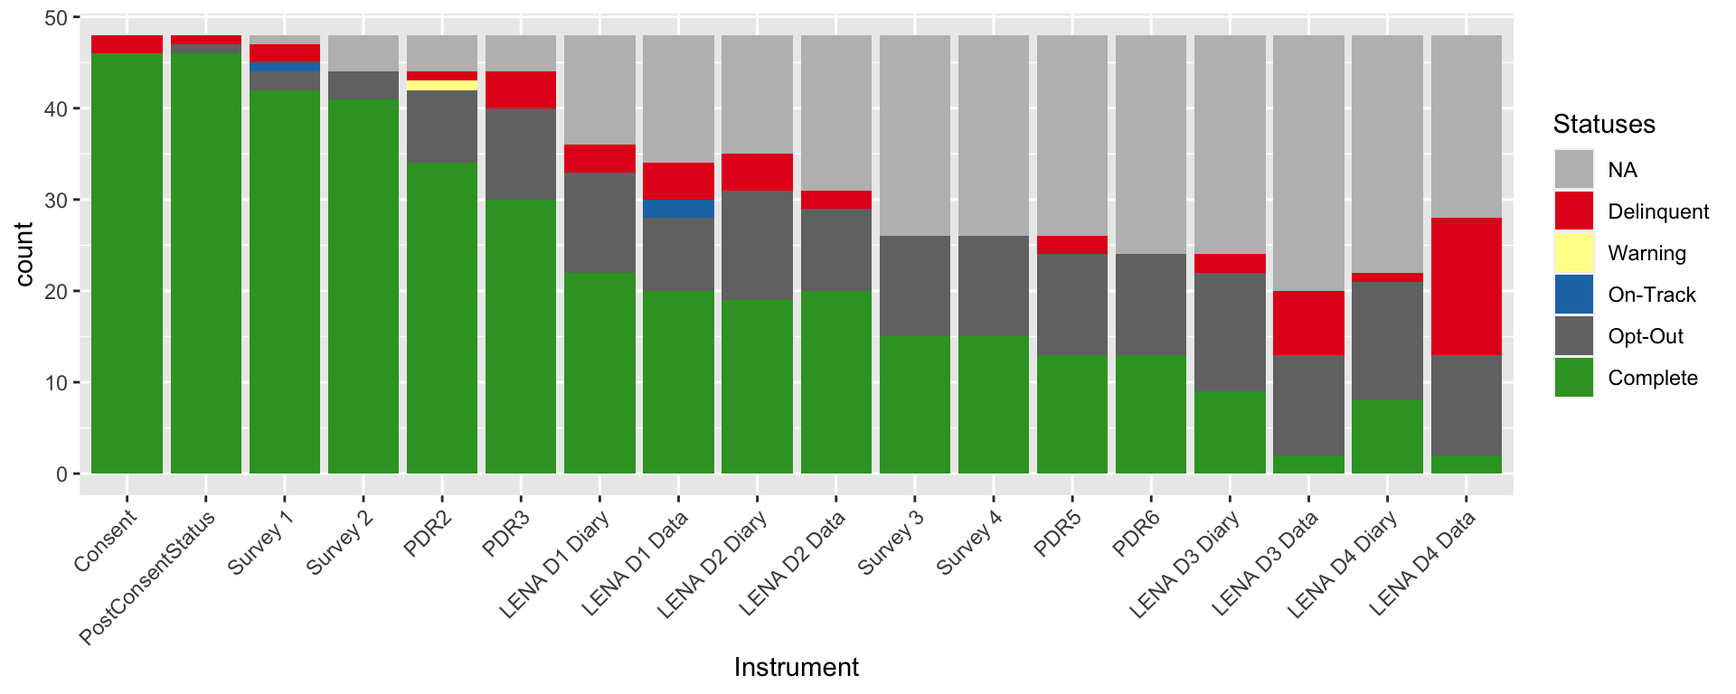
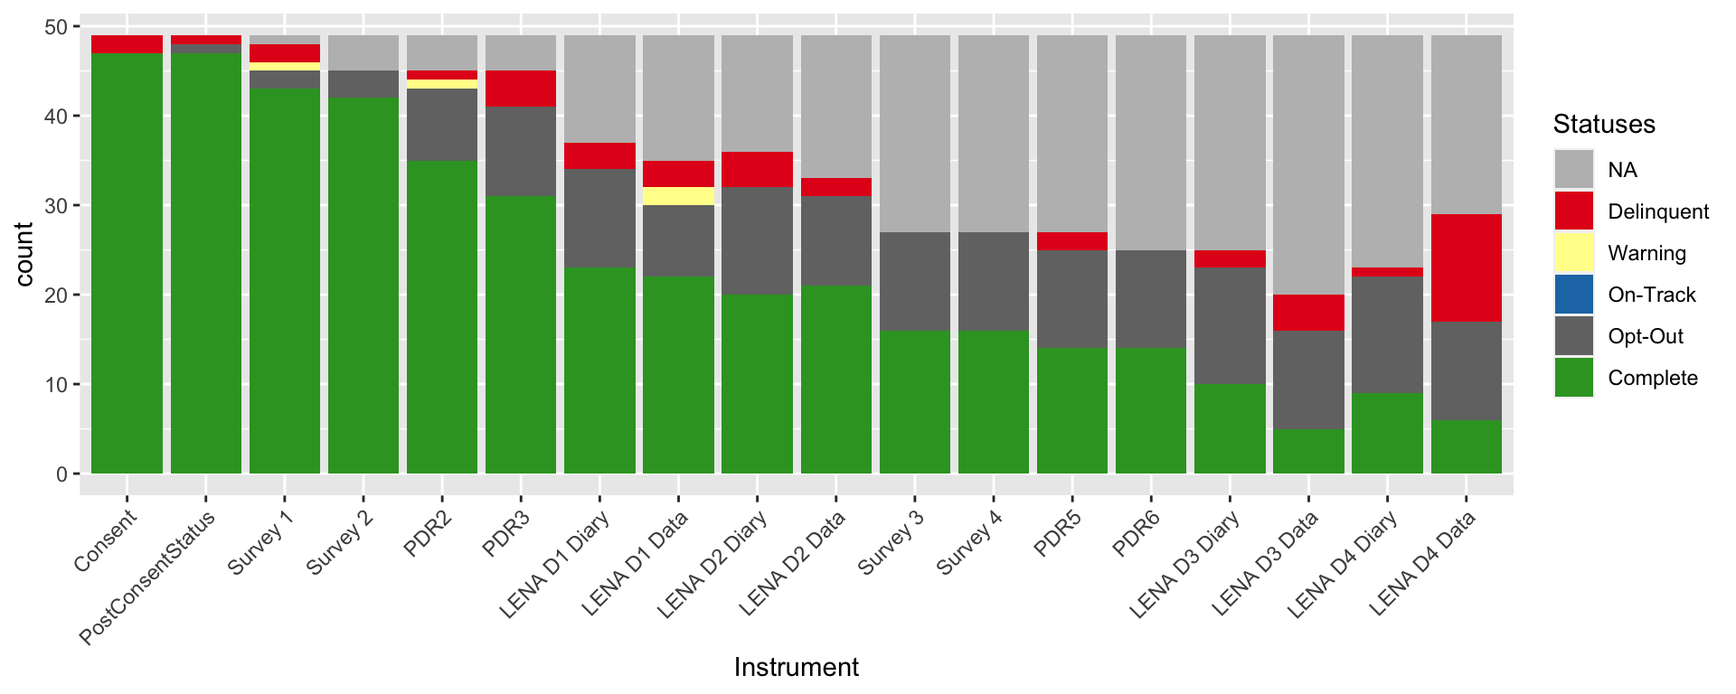
Add drop = false, fix missing factors in plot

diff --git a/_site/reports.html b/_site/reports.html
@@ -399,7 +399,7 @@ $(document).ready(function () {
 </div>
 <center>
 <div id="htmlwidget-64dbf7ed44db75815197" style="width:960px;height:384px;" class="plotly html-widget"></div>
-<script type="application/json" data-for="htmlwidget-64dbf7ed44db75815197">{"x":{"data":[{"x":[1594210295,1595855440,1595947129,1596636699,1597147658,1597190400,1597276800,1597402867,1598436608,1598538979,1598541299,1598955066,1599570320,1600250194,1600255992,1600300800,1600355481,1600387200,1600863340,1601302221,1601566658,1602239005,1603368728,1603379955,1603670400,1603977413,1604491899,1604751373,1605089156,1605139200,1605179257,1605721538,1605872792,1607040000,1607472000,1607644800,1607687486,1609891200,1609897301,1611187200,1611878400,1612396800,1612396800,1612396800,1611878400,1611187200,1609897301,1609891200,1607687486,1607644800,1607472000,1607040000,1605872792,1605721538,1605179257,1605139200,1605089156,1604751373,1604491899,1603977413,1603670400,1603379955,1603368728,1602239005,1601566658,1601302221,1600863340,1600387200,1600355481,1600300800,1600255992,1600250194,1599570320,1598955066,1598541299,1598538979,1598436608,1597402867,1597276800,1597190400,1597147658,1596636699,1595947129,1595855440,1594210295,1594210295],"y":[0,0,0,0,0,0,0,0,0,0,0,0,0,0,0,0,0,0,0,0,0,0,0,0,0,0,0,0,0,0,0,0,0,0,0,0,0,0,0,0,0,0,0,43,42,41,40,39,38,37,36,35,34,33,32,31,30,29,28,27,26,25,24,23,22,21,20,19,18,17,16,15,14,13,12,11,10,9,8,6,5,4,3,2,1,0],"text":["InformedConsent: 2020-07-08 19:11:35<br />Cumulative:  1","InformedConsent: 2020-07-27 20:10:40<br />Cumulative:  2","InformedConsent: 2020-07-28 21:38:49<br />Cumulative:  3","InformedConsent: 2020-08-05 21:11:39<br />Cumulative:  4","InformedConsent: 2020-08-11 19:07:38<br />Cumulative:  5","InformedConsent: 2020-08-12 07:00:00<br />Cumulative:  6","InformedConsent: 2020-08-13 07:00:00<br />Cumulative:  8","InformedConsent: 2020-08-14 18:01:07<br />Cumulative:  9","InformedConsent: 2020-08-26 17:10:08<br />Cumulative: 10","InformedConsent: 2020-08-27 21:36:19<br />Cumulative: 11","InformedConsent: 2020-08-27 22:14:59<br />Cumulative: 12","InformedConsent: 2020-09-01 17:11:06<br />Cumulative: 13","InformedConsent: 2020-09-08 20:05:20<br />Cumulative: 14","InformedConsent: 2020-09-16 16:56:34<br />Cumulative: 15","InformedConsent: 2020-09-16 18:33:12<br />Cumulative: 16","InformedConsent: 2020-09-17 07:00:00<br />Cumulative: 17","InformedConsent: 2020-09-17 22:11:21<br />Cumulative: 18","InformedConsent: 2020-09-18 07:00:00<br />Cumulative: 19","InformedConsent: 2020-09-23 19:15:40<br />Cumulative: 20","InformedConsent: 2020-09-28 21:10:21<br />Cumulative: 21","InformedConsent: 2020-10-01 22:37:38<br />Cumulative: 22","InformedConsent: 2020-10-09 17:23:25<br />Cumulative: 23","InformedConsent: 2020-10-22 19:12:08<br />Cumulative: 24","InformedConsent: 2020-10-22 22:19:15<br />Cumulative: 25","InformedConsent: 2020-10-26 07:00:00<br />Cumulative: 26","InformedConsent: 2020-10-29 20:16:53<br />Cumulative: 27","InformedConsent: 2020-11-04 20:11:39<br />Cumulative: 28","InformedConsent: 2020-11-07 20:16:13<br />Cumulative: 29","InformedConsent: 2020-11-11 18:05:56<br />Cumulative: 30","InformedConsent: 2020-11-12 08:00:00<br />Cumulative: 31","InformedConsent: 2020-11-12 19:07:37<br />Cumulative: 32","InformedConsent: 2020-11-19 01:45:38<br />Cumulative: 33","InformedConsent: 2020-11-20 19:46:32<br />Cumulative: 34","InformedConsent: 2020-12-04 08:00:00<br />Cumulative: 35","InformedConsent: 2020-12-09 08:00:00<br />Cumulative: 36","InformedConsent: 2020-12-11 08:00:00<br />Cumulative: 37","InformedConsent: 2020-12-11 19:51:26<br />Cumulative: 38","InformedConsent: 2021-01-06 08:00:00<br />Cumulative: 39","InformedConsent: 2021-01-06 09:41:41<br />Cumulative: 40","InformedConsent: 2021-01-21 08:00:00<br />Cumulative: 41","InformedConsent: 2021-01-29 08:00:00<br />Cumulative: 42","InformedConsent: 2021-02-04 08:00:00<br />Cumulative: 43","InformedConsent: 2021-02-04 08:00:00<br />Cumulative: 43","InformedConsent: 2021-02-04 08:00:00<br />Cumulative: 43","InformedConsent: 2021-01-29 08:00:00<br />Cumulative: 42","InformedConsent: 2021-01-21 08:00:00<br />Cumulative: 41","InformedConsent: 2021-01-06 09:41:41<br />Cumulative: 40","InformedConsent: 2021-01-06 08:00:00<br />Cumulative: 39","InformedConsent: 2020-12-11 19:51:26<br />Cumulative: 38","InformedConsent: 2020-12-11 08:00:00<br />Cumulative: 37","InformedConsent: 2020-12-09 08:00:00<br />Cumulative: 36","InformedConsent: 2020-12-04 08:00:00<br />Cumulative: 35","InformedConsent: 2020-11-20 19:46:32<br />Cumulative: 34","InformedConsent: 2020-11-19 01:45:38<br />Cumulative: 33","InformedConsent: 2020-11-12 19:07:37<br />Cumulative: 32","InformedConsent: 2020-11-12 08:00:00<br />Cumulative: 31","InformedConsent: 2020-11-11 18:05:56<br />Cumulative: 30","InformedConsent: 2020-11-07 20:16:13<br />Cumulative: 29","InformedConsent: 2020-11-04 20:11:39<br />Cumulative: 28","InformedConsent: 2020-10-29 20:16:53<br />Cumulative: 27","InformedConsent: 2020-10-26 07:00:00<br />Cumulative: 26","InformedConsent: 2020-10-22 22:19:15<br />Cumulative: 25","InformedConsent: 2020-10-22 19:12:08<br />Cumulative: 24","InformedConsent: 2020-10-09 17:23:25<br />Cumulative: 23","InformedConsent: 2020-10-01 22:37:38<br />Cumulative: 22","InformedConsent: 2020-09-28 21:10:21<br />Cumulative: 21","InformedConsent: 2020-09-23 19:15:40<br />Cumulative: 20","InformedConsent: 2020-09-18 07:00:00<br />Cumulative: 19","InformedConsent: 2020-09-17 22:11:21<br />Cumulative: 18","InformedConsent: 2020-09-17 07:00:00<br />Cumulative: 17","InformedConsent: 2020-09-16 18:33:12<br />Cumulative: 16","InformedConsent: 2020-09-16 16:56:34<br />Cumulative: 15","InformedConsent: 2020-09-08 20:05:20<br />Cumulative: 14","InformedConsent: 2020-09-01 17:11:06<br />Cumulative: 13","InformedConsent: 2020-08-27 22:14:59<br />Cumulative: 12","InformedConsent: 2020-08-27 21:36:19<br />Cumulative: 11","InformedConsent: 2020-08-26 17:10:08<br />Cumulative: 10","InformedConsent: 2020-08-14 18:01:07<br />Cumulative:  9","InformedConsent: 2020-08-13 07:00:00<br />Cumulative:  8","InformedConsent: 2020-08-12 07:00:00<br />Cumulative:  6","InformedConsent: 2020-08-11 19:07:38<br />Cumulative:  5","InformedConsent: 2020-08-05 21:11:39<br />Cumulative:  4","InformedConsent: 2020-07-28 21:38:49<br />Cumulative:  3","InformedConsent: 2020-07-27 20:10:40<br />Cumulative:  2","InformedConsent: 2020-07-08 19:11:35<br />Cumulative:  1","InformedConsent: 2020-07-08 19:11:35<br />Cumulative:  1"],"type":"scatter","mode":"lines","line":{"width":1.88976377952756,"color":"transparent","dash":"solid"},"fill":"toself","fillcolor":"rgba(105,179,162,0.5)","hoveron":"points","showlegend":false,"xaxis":"x","yaxis":"y","hoverinfo":"text","frame":null},{"x":[1594210295,1595855440,1595947129,1596636699,1597147658,1597190400,1597276800,1597402867,1598436608,1598538979,1598541299,1598955066,1599570320,1600250194,1600255992,1600300800,1600355481,1600387200,1600863340,1601302221,1601566658,1602239005,1603368728,1603379955,1603670400,1603977413,1604491899,1604751373,1605089156,1605139200,1605179257,1605721538,1605872792,1607040000,1607472000,1607644800,1607687486,1609891200,1609897301,1611187200,1611878400,1612396800,null],"y":[1,2,3,4,5,6,8,9,10,11,12,13,14,15,16,17,18,19,20,21,22,23,24,25,26,27,28,29,30,31,32,33,34,35,36,37,38,39,40,41,42,43,48],"text":["InformedConsent: 2020-07-08 12:11:35<br />Cumulative:  1","InformedConsent: 2020-07-27 13:10:40<br />Cumulative:  2","InformedConsent: 2020-07-28 14:38:49<br />Cumulative:  3","InformedConsent: 2020-08-05 14:11:39<br />Cumulative:  4","InformedConsent: 2020-08-11 12:07:38<br />Cumulative:  5","InformedConsent: 2020-08-12 00:00:00<br />Cumulative:  6","InformedConsent: 2020-08-13 00:00:00<br />Cumulative:  8","InformedConsent: 2020-08-14 11:01:07<br />Cumulative:  9","InformedConsent: 2020-08-26 10:10:08<br />Cumulative: 10","InformedConsent: 2020-08-27 14:36:19<br />Cumulative: 11","InformedConsent: 2020-08-27 15:14:59<br />Cumulative: 12","InformedConsent: 2020-09-01 10:11:06<br />Cumulative: 13","InformedConsent: 2020-09-08 13:05:20<br />Cumulative: 14","InformedConsent: 2020-09-16 09:56:34<br />Cumulative: 15","InformedConsent: 2020-09-16 11:33:12<br />Cumulative: 16","InformedConsent: 2020-09-17 00:00:00<br />Cumulative: 17","InformedConsent: 2020-09-17 15:11:21<br />Cumulative: 18","InformedConsent: 2020-09-18 00:00:00<br />Cumulative: 19","InformedConsent: 2020-09-23 12:15:40<br />Cumulative: 20","InformedConsent: 2020-09-28 14:10:21<br />Cumulative: 21","InformedConsent: 2020-10-01 15:37:38<br />Cumulative: 22","InformedConsent: 2020-10-09 10:23:25<br />Cumulative: 23","InformedConsent: 2020-10-22 12:12:08<br />Cumulative: 24","InformedConsent: 2020-10-22 15:19:15<br />Cumulative: 25","InformedConsent: 2020-10-26 00:00:00<br />Cumulative: 26","InformedConsent: 2020-10-29 13:16:53<br />Cumulative: 27","InformedConsent: 2020-11-04 12:11:39<br />Cumulative: 28","InformedConsent: 2020-11-07 12:16:13<br />Cumulative: 29","InformedConsent: 2020-11-11 10:05:56<br />Cumulative: 30","InformedConsent: 2020-11-12 00:00:00<br />Cumulative: 31","InformedConsent: 2020-11-12 11:07:37<br />Cumulative: 32","InformedConsent: 2020-11-18 17:45:38<br />Cumulative: 33","InformedConsent: 2020-11-20 11:46:32<br />Cumulative: 34","InformedConsent: 2020-12-04 00:00:00<br />Cumulative: 35","InformedConsent: 2020-12-09 00:00:00<br />Cumulative: 36","InformedConsent: 2020-12-11 00:00:00<br />Cumulative: 37","InformedConsent: 2020-12-11 11:51:26<br />Cumulative: 38","InformedConsent: 2021-01-06 00:00:00<br />Cumulative: 39","InformedConsent: 2021-01-06 01:41:41<br />Cumulative: 40","InformedConsent: 2021-01-21 00:00:00<br />Cumulative: 41","InformedConsent: 2021-01-29 00:00:00<br />Cumulative: 42","InformedConsent: 2021-02-04 00:00:00<br />Cumulative: 43","InformedConsent: NA<br />Cumulative: 48"],"type":"scatter","mode":"lines","line":{"width":1.88976377952756,"color":"rgba(105,179,162,1)","dash":"solid"},"hoveron":"points","showlegend":false,"xaxis":"x","yaxis":"y","hoverinfo":"text","frame":null}],"layout":{"margin":{"t":65.813200498132,"r":39.8505603985056,"b":80.8634288086343,"l":70.9007887090079},"font":{"color":"rgba(0,0,0,1)","family":"Arial Narrow","size":15.2760481527605},"xaxis":{"domain":[0,1],"automargin":true,"type":"linear","autorange":false,"range":[1593300969.75,1613306125.25],"tickmode":"array","ticktext":["Jul","Oct","Jan"],"tickvals":[1593561600,1601510400,1609459200],"categoryorder":"array","categoryarray":["Jul","Oct","Jan"],"nticks":null,"ticks":"","tickcolor":null,"ticklen":3.81901203819012,"tickwidth":0,"showticklabels":true,"tickfont":{"color":"rgba(77,77,77,1)","family":"Arial Narrow","size":15.2760481527605},"tickangle":-0,"showline":false,"linecolor":null,"linewidth":0,"showgrid":true,"gridcolor":"rgba(204,204,204,1)","gridwidth":0.265670402656704,"zeroline":false,"anchor":"y","title":{"text":"Time","font":{"color":"rgba(0,0,0,1)","family":"Arial Narrow","size":11.9551681195517}},"hoverformat":".2f"},"yaxis":{"domain":[0,1],"automargin":true,"type":"linear","autorange":false,"range":[-2.4,50.4],"tickmode":"array","ticktext":["0","10","20","30","40","50"],"tickvals":[0,10,20,30,40,50],"categoryorder":"array","categoryarray":["0","10","20","30","40","50"],"nticks":null,"ticks":"","tickcolor":null,"ticklen":3.81901203819012,"tickwidth":0,"showticklabels":true,"tickfont":{"color":"rgba(77,77,77,1)","family":"Arial Narrow","size":15.2760481527605},"tickangle":-0,"showline":false,"linecolor":null,"linewidth":0,"showgrid":true,"gridcolor":"rgba(204,204,204,1)","gridwidth":0.265670402656704,"zeroline":false,"anchor":"x","title":{"text":"Dyad Count","font":{"color":"rgba(0,0,0,1)","family":"Arial Narrow","size":11.9551681195517}},"hoverformat":".2f"},"shapes":[{"type":"rect","fillcolor":null,"line":{"color":null,"width":0,"linetype":[]},"yref":"paper","xref":"paper","x0":0,"x1":1,"y0":0,"y1":1}],"showlegend":false,"legend":{"bgcolor":null,"bordercolor":null,"borderwidth":0,"font":{"color":"rgba(0,0,0,1)","family":"Arial Narrow","size":12.2208385222084}},"hovermode":"closest","barmode":"relative"},"config":{"doubleClick":"reset","showSendToCloud":false},"source":"A","attrs":{"1558e3a3b6d2a":{"x":{},"y":{},"type":"scatter"},"1558e137bfe44":{"x":{},"y":{}}},"cur_data":"1558e3a3b6d2a","visdat":{"1558e3a3b6d2a":["function (y) ","x"],"1558e137bfe44":["function (y) ","x"]},"highlight":{"on":"plotly_click","persistent":false,"dynamic":false,"selectize":false,"opacityDim":0.2,"selected":{"opacity":1},"debounce":0},"shinyEvents":["plotly_hover","plotly_click","plotly_selected","plotly_relayout","plotly_brushed","plotly_brushing","plotly_clickannotation","plotly_doubleclick","plotly_deselect","plotly_afterplot","plotly_sunburstclick"],"base_url":"https://plot.ly"},"evals":[],"jsHooks":[]}</script><img src="reports_files/figure-html/SEAL%20Conditions%20Plot-2.png" width="960" />
+<script type="application/json" data-for="htmlwidget-64dbf7ed44db75815197">{"x":{"data":[{"x":[1594210295,1595855440,1595947129,1596636699,1597147658,1597190400,1597276800,1597402867,1598436608,1598538979,1598541299,1598955066,1599570320,1600250194,1600255992,1600300800,1600355481,1600387200,1600863340,1601302221,1601566658,1602239005,1603368728,1603379955,1603670400,1603977413,1604491899,1604751373,1605089156,1605139200,1605179257,1605721538,1605872792,1607040000,1607472000,1607644800,1607687486,1609891200,1609897301,1611187200,1611878400,1612396800,1612396800,1612396800,1611878400,1611187200,1609897301,1609891200,1607687486,1607644800,1607472000,1607040000,1605872792,1605721538,1605179257,1605139200,1605089156,1604751373,1604491899,1603977413,1603670400,1603379955,1603368728,1602239005,1601566658,1601302221,1600863340,1600387200,1600355481,1600300800,1600255992,1600250194,1599570320,1598955066,1598541299,1598538979,1598436608,1597402867,1597276800,1597190400,1597147658,1596636699,1595947129,1595855440,1594210295,1594210295],"y":[0,0,0,0,0,0,0,0,0,0,0,0,0,0,0,0,0,0,0,0,0,0,0,0,0,0,0,0,0,0,0,0,0,0,0,0,0,0,0,0,0,0,0,43,42,41,40,39,38,37,36,35,34,33,32,31,30,29,28,27,26,25,24,23,22,21,20,19,18,17,16,15,14,13,12,11,10,9,8,6,5,4,3,2,1,0],"text":["InformedConsent: 2020-07-08 19:11:35<br />Cumulative:  1","InformedConsent: 2020-07-27 20:10:40<br />Cumulative:  2","InformedConsent: 2020-07-28 21:38:49<br />Cumulative:  3","InformedConsent: 2020-08-05 21:11:39<br />Cumulative:  4","InformedConsent: 2020-08-11 19:07:38<br />Cumulative:  5","InformedConsent: 2020-08-12 07:00:00<br />Cumulative:  6","InformedConsent: 2020-08-13 07:00:00<br />Cumulative:  8","InformedConsent: 2020-08-14 18:01:07<br />Cumulative:  9","InformedConsent: 2020-08-26 17:10:08<br />Cumulative: 10","InformedConsent: 2020-08-27 21:36:19<br />Cumulative: 11","InformedConsent: 2020-08-27 22:14:59<br />Cumulative: 12","InformedConsent: 2020-09-01 17:11:06<br />Cumulative: 13","InformedConsent: 2020-09-08 20:05:20<br />Cumulative: 14","InformedConsent: 2020-09-16 16:56:34<br />Cumulative: 15","InformedConsent: 2020-09-16 18:33:12<br />Cumulative: 16","InformedConsent: 2020-09-17 07:00:00<br />Cumulative: 17","InformedConsent: 2020-09-17 22:11:21<br />Cumulative: 18","InformedConsent: 2020-09-18 07:00:00<br />Cumulative: 19","InformedConsent: 2020-09-23 19:15:40<br />Cumulative: 20","InformedConsent: 2020-09-28 21:10:21<br />Cumulative: 21","InformedConsent: 2020-10-01 22:37:38<br />Cumulative: 22","InformedConsent: 2020-10-09 17:23:25<br />Cumulative: 23","InformedConsent: 2020-10-22 19:12:08<br />Cumulative: 24","InformedConsent: 2020-10-22 22:19:15<br />Cumulative: 25","InformedConsent: 2020-10-26 07:00:00<br />Cumulative: 26","InformedConsent: 2020-10-29 20:16:53<br />Cumulative: 27","InformedConsent: 2020-11-04 20:11:39<br />Cumulative: 28","InformedConsent: 2020-11-07 20:16:13<br />Cumulative: 29","InformedConsent: 2020-11-11 18:05:56<br />Cumulative: 30","InformedConsent: 2020-11-12 08:00:00<br />Cumulative: 31","InformedConsent: 2020-11-12 19:07:37<br />Cumulative: 32","InformedConsent: 2020-11-19 01:45:38<br />Cumulative: 33","InformedConsent: 2020-11-20 19:46:32<br />Cumulative: 34","InformedConsent: 2020-12-04 08:00:00<br />Cumulative: 35","InformedConsent: 2020-12-09 08:00:00<br />Cumulative: 36","InformedConsent: 2020-12-11 08:00:00<br />Cumulative: 37","InformedConsent: 2020-12-11 19:51:26<br />Cumulative: 38","InformedConsent: 2021-01-06 08:00:00<br />Cumulative: 39","InformedConsent: 2021-01-06 09:41:41<br />Cumulative: 40","InformedConsent: 2021-01-21 08:00:00<br />Cumulative: 41","InformedConsent: 2021-01-29 08:00:00<br />Cumulative: 42","InformedConsent: 2021-02-04 08:00:00<br />Cumulative: 43","InformedConsent: 2021-02-04 08:00:00<br />Cumulative: 43","InformedConsent: 2021-02-04 08:00:00<br />Cumulative: 43","InformedConsent: 2021-01-29 08:00:00<br />Cumulative: 42","InformedConsent: 2021-01-21 08:00:00<br />Cumulative: 41","InformedConsent: 2021-01-06 09:41:41<br />Cumulative: 40","InformedConsent: 2021-01-06 08:00:00<br />Cumulative: 39","InformedConsent: 2020-12-11 19:51:26<br />Cumulative: 38","InformedConsent: 2020-12-11 08:00:00<br />Cumulative: 37","InformedConsent: 2020-12-09 08:00:00<br />Cumulative: 36","InformedConsent: 2020-12-04 08:00:00<br />Cumulative: 35","InformedConsent: 2020-11-20 19:46:32<br />Cumulative: 34","InformedConsent: 2020-11-19 01:45:38<br />Cumulative: 33","InformedConsent: 2020-11-12 19:07:37<br />Cumulative: 32","InformedConsent: 2020-11-12 08:00:00<br />Cumulative: 31","InformedConsent: 2020-11-11 18:05:56<br />Cumulative: 30","InformedConsent: 2020-11-07 20:16:13<br />Cumulative: 29","InformedConsent: 2020-11-04 20:11:39<br />Cumulative: 28","InformedConsent: 2020-10-29 20:16:53<br />Cumulative: 27","InformedConsent: 2020-10-26 07:00:00<br />Cumulative: 26","InformedConsent: 2020-10-22 22:19:15<br />Cumulative: 25","InformedConsent: 2020-10-22 19:12:08<br />Cumulative: 24","InformedConsent: 2020-10-09 17:23:25<br />Cumulative: 23","InformedConsent: 2020-10-01 22:37:38<br />Cumulative: 22","InformedConsent: 2020-09-28 21:10:21<br />Cumulative: 21","InformedConsent: 2020-09-23 19:15:40<br />Cumulative: 20","InformedConsent: 2020-09-18 07:00:00<br />Cumulative: 19","InformedConsent: 2020-09-17 22:11:21<br />Cumulative: 18","InformedConsent: 2020-09-17 07:00:00<br />Cumulative: 17","InformedConsent: 2020-09-16 18:33:12<br />Cumulative: 16","InformedConsent: 2020-09-16 16:56:34<br />Cumulative: 15","InformedConsent: 2020-09-08 20:05:20<br />Cumulative: 14","InformedConsent: 2020-09-01 17:11:06<br />Cumulative: 13","InformedConsent: 2020-08-27 22:14:59<br />Cumulative: 12","InformedConsent: 2020-08-27 21:36:19<br />Cumulative: 11","InformedConsent: 2020-08-26 17:10:08<br />Cumulative: 10","InformedConsent: 2020-08-14 18:01:07<br />Cumulative:  9","InformedConsent: 2020-08-13 07:00:00<br />Cumulative:  8","InformedConsent: 2020-08-12 07:00:00<br />Cumulative:  6","InformedConsent: 2020-08-11 19:07:38<br />Cumulative:  5","InformedConsent: 2020-08-05 21:11:39<br />Cumulative:  4","InformedConsent: 2020-07-28 21:38:49<br />Cumulative:  3","InformedConsent: 2020-07-27 20:10:40<br />Cumulative:  2","InformedConsent: 2020-07-08 19:11:35<br />Cumulative:  1","InformedConsent: 2020-07-08 19:11:35<br />Cumulative:  1"],"type":"scatter","mode":"lines","line":{"width":1.88976377952756,"color":"transparent","dash":"solid"},"fill":"toself","fillcolor":"rgba(105,179,162,0.5)","hoveron":"points","showlegend":false,"xaxis":"x","yaxis":"y","hoverinfo":"text","frame":null},{"x":[1594210295,1595855440,1595947129,1596636699,1597147658,1597190400,1597276800,1597402867,1598436608,1598538979,1598541299,1598955066,1599570320,1600250194,1600255992,1600300800,1600355481,1600387200,1600863340,1601302221,1601566658,1602239005,1603368728,1603379955,1603670400,1603977413,1604491899,1604751373,1605089156,1605139200,1605179257,1605721538,1605872792,1607040000,1607472000,1607644800,1607687486,1609891200,1609897301,1611187200,1611878400,1612396800,null],"y":[1,2,3,4,5,6,8,9,10,11,12,13,14,15,16,17,18,19,20,21,22,23,24,25,26,27,28,29,30,31,32,33,34,35,36,37,38,39,40,41,42,43,48],"text":["InformedConsent: 2020-07-08 12:11:35<br />Cumulative:  1","InformedConsent: 2020-07-27 13:10:40<br />Cumulative:  2","InformedConsent: 2020-07-28 14:38:49<br />Cumulative:  3","InformedConsent: 2020-08-05 14:11:39<br />Cumulative:  4","InformedConsent: 2020-08-11 12:07:38<br />Cumulative:  5","InformedConsent: 2020-08-12 00:00:00<br />Cumulative:  6","InformedConsent: 2020-08-13 00:00:00<br />Cumulative:  8","InformedConsent: 2020-08-14 11:01:07<br />Cumulative:  9","InformedConsent: 2020-08-26 10:10:08<br />Cumulative: 10","InformedConsent: 2020-08-27 14:36:19<br />Cumulative: 11","InformedConsent: 2020-08-27 15:14:59<br />Cumulative: 12","InformedConsent: 2020-09-01 10:11:06<br />Cumulative: 13","InformedConsent: 2020-09-08 13:05:20<br />Cumulative: 14","InformedConsent: 2020-09-16 09:56:34<br />Cumulative: 15","InformedConsent: 2020-09-16 11:33:12<br />Cumulative: 16","InformedConsent: 2020-09-17 00:00:00<br />Cumulative: 17","InformedConsent: 2020-09-17 15:11:21<br />Cumulative: 18","InformedConsent: 2020-09-18 00:00:00<br />Cumulative: 19","InformedConsent: 2020-09-23 12:15:40<br />Cumulative: 20","InformedConsent: 2020-09-28 14:10:21<br />Cumulative: 21","InformedConsent: 2020-10-01 15:37:38<br />Cumulative: 22","InformedConsent: 2020-10-09 10:23:25<br />Cumulative: 23","InformedConsent: 2020-10-22 12:12:08<br />Cumulative: 24","InformedConsent: 2020-10-22 15:19:15<br />Cumulative: 25","InformedConsent: 2020-10-26 00:00:00<br />Cumulative: 26","InformedConsent: 2020-10-29 13:16:53<br />Cumulative: 27","InformedConsent: 2020-11-04 12:11:39<br />Cumulative: 28","InformedConsent: 2020-11-07 12:16:13<br />Cumulative: 29","InformedConsent: 2020-11-11 10:05:56<br />Cumulative: 30","InformedConsent: 2020-11-12 00:00:00<br />Cumulative: 31","InformedConsent: 2020-11-12 11:07:37<br />Cumulative: 32","InformedConsent: 2020-11-18 17:45:38<br />Cumulative: 33","InformedConsent: 2020-11-20 11:46:32<br />Cumulative: 34","InformedConsent: 2020-12-04 00:00:00<br />Cumulative: 35","InformedConsent: 2020-12-09 00:00:00<br />Cumulative: 36","InformedConsent: 2020-12-11 00:00:00<br />Cumulative: 37","InformedConsent: 2020-12-11 11:51:26<br />Cumulative: 38","InformedConsent: 2021-01-06 00:00:00<br />Cumulative: 39","InformedConsent: 2021-01-06 01:41:41<br />Cumulative: 40","InformedConsent: 2021-01-21 00:00:00<br />Cumulative: 41","InformedConsent: 2021-01-29 00:00:00<br />Cumulative: 42","InformedConsent: 2021-02-04 00:00:00<br />Cumulative: 43","InformedConsent: NA<br />Cumulative: 48"],"type":"scatter","mode":"lines","line":{"width":1.88976377952756,"color":"rgba(105,179,162,1)","dash":"solid"},"hoveron":"points","showlegend":false,"xaxis":"x","yaxis":"y","hoverinfo":"text","frame":null}],"layout":{"margin":{"t":65.813200498132,"r":39.8505603985056,"b":80.8634288086343,"l":70.9007887090079},"font":{"color":"rgba(0,0,0,1)","family":"Arial Narrow","size":15.2760481527605},"xaxis":{"domain":[0,1],"automargin":true,"type":"linear","autorange":false,"range":[1593300969.75,1613306125.25],"tickmode":"array","ticktext":["Jul","Oct","Jan"],"tickvals":[1593561600,1601510400,1609459200],"categoryorder":"array","categoryarray":["Jul","Oct","Jan"],"nticks":null,"ticks":"","tickcolor":null,"ticklen":3.81901203819012,"tickwidth":0,"showticklabels":true,"tickfont":{"color":"rgba(77,77,77,1)","family":"Arial Narrow","size":15.2760481527605},"tickangle":-0,"showline":false,"linecolor":null,"linewidth":0,"showgrid":true,"gridcolor":"rgba(204,204,204,1)","gridwidth":0.265670402656704,"zeroline":false,"anchor":"y","title":{"text":"Time","font":{"color":"rgba(0,0,0,1)","family":"Arial Narrow","size":11.9551681195517}},"hoverformat":".2f"},"yaxis":{"domain":[0,1],"automargin":true,"type":"linear","autorange":false,"range":[-2.4,50.4],"tickmode":"array","ticktext":["0","10","20","30","40","50"],"tickvals":[0,10,20,30,40,50],"categoryorder":"array","categoryarray":["0","10","20","30","40","50"],"nticks":null,"ticks":"","tickcolor":null,"ticklen":3.81901203819012,"tickwidth":0,"showticklabels":true,"tickfont":{"color":"rgba(77,77,77,1)","family":"Arial Narrow","size":15.2760481527605},"tickangle":-0,"showline":false,"linecolor":null,"linewidth":0,"showgrid":true,"gridcolor":"rgba(204,204,204,1)","gridwidth":0.265670402656704,"zeroline":false,"anchor":"x","title":{"text":"Dyad Count","font":{"color":"rgba(0,0,0,1)","family":"Arial Narrow","size":11.9551681195517}},"hoverformat":".2f"},"shapes":[{"type":"rect","fillcolor":null,"line":{"color":null,"width":0,"linetype":[]},"yref":"paper","xref":"paper","x0":0,"x1":1,"y0":0,"y1":1}],"showlegend":false,"legend":{"bgcolor":null,"bordercolor":null,"borderwidth":0,"font":{"color":"rgba(0,0,0,1)","family":"Arial Narrow","size":12.2208385222084}},"hovermode":"closest","barmode":"relative"},"config":{"doubleClick":"reset","showSendToCloud":false},"source":"A","attrs":{"1244190f580e":{"x":{},"y":{},"type":"scatter"},"124414e5e03c7":{"x":{},"y":{}}},"cur_data":"1244190f580e","visdat":{"1244190f580e":["function (y) ","x"],"124414e5e03c7":["function (y) ","x"]},"highlight":{"on":"plotly_click","persistent":false,"dynamic":false,"selectize":false,"opacityDim":0.2,"selected":{"opacity":1},"debounce":0},"shinyEvents":["plotly_hover","plotly_click","plotly_selected","plotly_relayout","plotly_brushed","plotly_brushing","plotly_clickannotation","plotly_doubleclick","plotly_deselect","plotly_afterplot","plotly_sunburstclick"],"base_url":"https://plot.ly"},"evals":[],"jsHooks":[]}</script><img src="reports_files/figure-html/SEAL%20Conditions%20Plot-2.png" width="960" />
 <center>
 <div>
 

diff --git a/_site/enrollment.html b/_site/enrollment.html
@@ -389,7 +389,7 @@ $(document).ready(function () {
 <div class="btn-group btn-group-justified">
 <div class="btn-group">
 <button type="button" class="btn btn-outline-dark .w-100">
-<strong>Consents Complete</strong><br>46
+<strong>Consents Complete</strong><br>47
 </button>
 </div>
 <div class="btn-group">
@@ -400,7 +400,7 @@ $(document).ready(function () {
 </div>
 <div class="btn-group btn-group-justified">
 <div class="btn-group">
-<a href="#" class="btn btn-default"><strong>Post-Consent Complete</strong><br>44</a>
+<a href="#" class="btn btn-default"><strong>Post-Consent Complete</strong><br>45</a>
 </div>
 <div class="btn-group">
 <a href="#" class="btn btn-default"><strong>Post-Consent In Progress</strong><br>2</a>
@@ -408,10 +408,10 @@ $(document).ready(function () {
 </div>
 <div class="btn-group btn-group-justified">
 <div class="btn-group">
-<a href="#" class="btn btn-primary"><strong>Wave 1 Complete</strong><br>22</a>
+<a href="#" class="btn btn-primary"><strong>Wave 1 Complete</strong><br>-9</a>
 </div>
 <div class="btn-group">
-<a href="#" class="btn btn-primary"><strong>Wave 1 In Progress</strong><br>17</a>
+<a href="#" class="btn btn-primary"><strong>Wave 1 In Progress</strong><br>16</a>
 </div>
 <div class="btn-group">
 <a href="#" class="btn btn-primary"><strong>Wave 1 Drop-Outs</strong><br> 9 </a>
@@ -419,7 +419,7 @@ $(document).ready(function () {
 </div>
 <div class="btn-group btn-group-justified">
 <div class="btn-group">
-<a href="#" class="btn btn-success"><strong>Intervention Complete</strong><br>14</a>
+<a href="#" class="btn btn-success"><strong>Intervention Complete</strong><br>15</a>
 </div>
 <div class="btn-group">
 <a href="#" class="btn btn-success"><strong>Intervention In Progress</strong><br>8</a>
@@ -430,7 +430,7 @@ $(document).ready(function () {
 </div>
 <div class="btn-group btn-group-justified">
 <div class="btn-group">
-<a href="#" class="btn btn-info"><strong>Wave 2 Complete</strong><br>9</a>
+<a href="#" class="btn btn-info"><strong>Wave 2 Complete</strong><br>10</a>
 </div>
 <div class="btn-group">
 <a href="#" class="btn btn-info"><strong>Wave 2 In Progress</strong><br>5</a>
@@ -444,7 +444,7 @@ $(document).ready(function () {
 <a href="#" class="btn btn-warning"><strong>Wave 3 Complete</strong><br>TBD</a>
 </div>
 <div class="btn-group">
-<a href="#" class="btn btn-warning"><strong>Wave 3 In Progress</strong><br>9</a>
+<a href="#" class="btn btn-warning"><strong>Wave 3 In Progress</strong><br>10</a>
 </div>
 <div class="btn-group">
 <a href="#" class="btn btn-warning"><strong>Wave 3 Drop-Outs</strong><br>0 </a>
@@ -502,7 +502,7 @@ NA
 Consent
 </td>
 <td style="text-align:right;">
-46
+47
 </td>
 <td style="text-align:right;">
 0
@@ -525,7 +525,7 @@ Consent
 Post Consent
 </td>
 <td style="text-align:right;">
-46
+47
 </td>
 <td style="text-align:right;">
 1
@@ -548,16 +548,16 @@ Post Consent
 Survey 1
 </td>
 <td style="text-align:right;">
-42
+43
 </td>
 <td style="text-align:right;">
 2
 </td>
 <td style="text-align:right;">
-1
+0
 </td>
 <td style="text-align:right;">
-0
+1
 </td>
 <td style="text-align:right;">
 2
@@ -571,7 +571,7 @@ Survey 1
 Survey 2
 </td>
 <td style="text-align:right;">
-41
+42
 </td>
 <td style="text-align:right;">
 3
@@ -594,7 +594,7 @@ Survey 2
 PDR2
 </td>
 <td style="text-align:right;">
-34
+35
 </td>
 <td style="text-align:right;">
 8
@@ -617,7 +617,7 @@ PDR2
 PDR3
 </td>
 <td style="text-align:right;">
-30
+31
 </td>
 <td style="text-align:right;">
 10
@@ -640,7 +640,7 @@ PDR3
 LENA D1 Diary
 </td>
 <td style="text-align:right;">
-22
+23
 </td>
 <td style="text-align:right;">
 11
@@ -663,19 +663,19 @@ LENA D1 Diary
 LENA D1 Data
 </td>
 <td style="text-align:right;">
-20
+22
 </td>
 <td style="text-align:right;">
 8
 </td>
 <td style="text-align:right;">
-2
-</td>
-<td style="text-align:right;">
 0
 </td>
 <td style="text-align:right;">
-4
+2
+</td>
+<td style="text-align:right;">
+3
 </td>
 <td style="text-align:right;">
 14
@@ -686,7 +686,7 @@ LENA D1 Data
 LENA D2 Diary
 </td>
 <td style="text-align:right;">
-19
+20
 </td>
 <td style="text-align:right;">
 12
@@ -709,10 +709,10 @@ LENA D2 Diary
 LENA D2 Data
 </td>
 <td style="text-align:right;">
-20
+21
 </td>
 <td style="text-align:right;">
-9
+10
 </td>
 <td style="text-align:right;">
 0
@@ -724,7 +724,7 @@ LENA D2 Data
 2
 </td>
 <td style="text-align:right;">
-17
+16
 </td>
 </tr>
 <tr>
@@ -732,7 +732,7 @@ LENA D2 Data
 Survey 3
 </td>
 <td style="text-align:right;">
-15
+16
 </td>
 <td style="text-align:right;">
 11
@@ -755,7 +755,7 @@ Survey 3
 Survey 4
 </td>
 <td style="text-align:right;">
-15
+16
 </td>
 <td style="text-align:right;">
 11
@@ -778,7 +778,7 @@ Survey 4
 PDR5
 </td>
 <td style="text-align:right;">
-13
+14
 </td>
 <td style="text-align:right;">
 11
@@ -801,7 +801,7 @@ PDR5
 PDR6
 </td>
 <td style="text-align:right;">
-13
+14
 </td>
 <td style="text-align:right;">
 11
@@ -824,7 +824,7 @@ PDR6
 LENA D3 Diary
 </td>
 <td style="text-align:right;">
-9
+10
 </td>
 <td style="text-align:right;">
 13
@@ -847,7 +847,7 @@ LENA D3 Diary
 LENA D3 Data
 </td>
 <td style="text-align:right;">
-2
+5
 </td>
 <td style="text-align:right;">
 11
@@ -859,10 +859,10 @@ LENA D3 Data
 0
 </td>
 <td style="text-align:right;">
-7
+4
 </td>
 <td style="text-align:right;">
-28
+29
 </td>
 </tr>
 <tr>
@@ -870,7 +870,7 @@ LENA D3 Data
 LENA D4 Diary
 </td>
 <td style="text-align:right;">
-8
+9
 </td>
 <td style="text-align:right;">
 13
@@ -893,7 +893,7 @@ LENA D4 Diary
 LENA D4 Data
 </td>
 <td style="text-align:right;">
-2
+6
 </td>
 <td style="text-align:right;">
 11
@@ -905,7 +905,7 @@ LENA D4 Data
 0
 </td>
 <td style="text-align:right;">
-15
+12
 </td>
 <td style="text-align:right;">
 20
